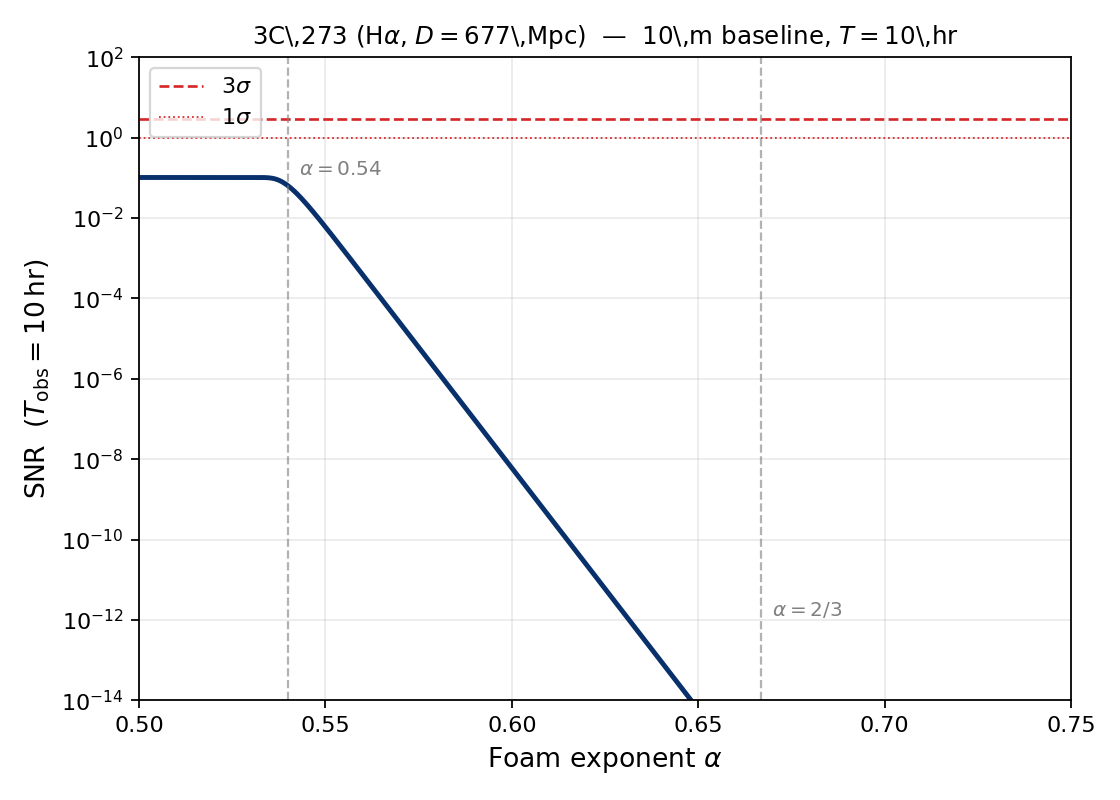
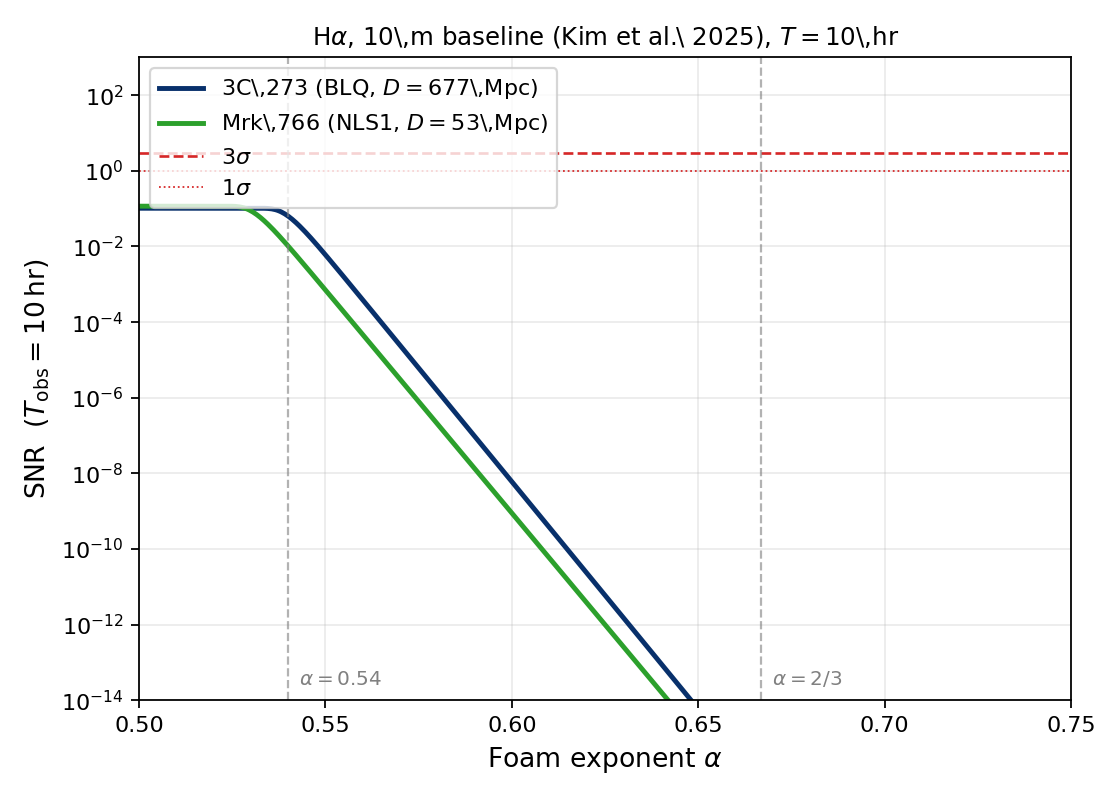
make_snr_alpha_figure.py: add Mrk 766 (NLS1) curve

diff --git a/docs/make_snr_alpha_figure.py b/docs/make_snr_alpha_figure.py
@@ -1,5 +1,5 @@
 r"""
-Figure: SNR vs foam exponent alpha for 3C 273 (Hα, D=677 Mpc),
+Figure: SNR vs foam exponent alpha for 3C 273 and Mrk 766 (NLS1),
 Kim 2025 baseline instrument (10 m, ε=0.39, σ_t=30 ps FWHM), T=10 hr.
 
 Run:  python make_snr_alpha_figure.py
@@ -31,17 +31,18 @@ sig_t     = 13e-12        # timing resolution, rms [s]  (30 ps FWHM)
 tau_c     = sig_t         # threshold filter: tau_c = sig_t (optimum)
 
 # ---------------------------------------------------------------
-# 3C 273 (Boroson & Green 1992)
+# Sources
 # ---------------------------------------------------------------
-F_line = 2e-12   # total Hα line flux [erg/s/cm²]
-FWHM   = 127.0   # Lorentzian FWHM [Å]
-dlam   = 1.1     # threshold filter width [Å]
-D_Mpc  = 677.0   # propagation distance [Mpc]
-D_m    = D_Mpc * Mpc
+dlam = 1.1   # threshold filter width [Å]
 
-# Lorentzian filter fraction and photon rate
-f_L = (2 / np.pi) * np.arctan(dlam / FWHM)
-R   = F_line * f_L * A_tel_cm2 / E_phot * eps   # [counts/s]
+# 3C 273 (Boroson & Green 1992): broad-line quasar
+sources = [
+    dict(label=r'3C\,273 (BLQ, $D=677$\,Mpc)',
+         F=2e-12, FWHM=127.0, D_Mpc=677.0, color='#08306b'),
+    # Mrk 766: bright NLS1, FWHM~1300 km/s = 28 Å at Hα (Kollatschny & Zetzl 2013)
+    dict(label=r'Mrk\,766 (NLS1, $D=53$\,Mpc)',
+         F=5e-13, FWHM=28.0,  D_Mpc=53.0,  color='#2ca02c'),
+]
 
 # ---------------------------------------------------------------
 # Observation time
@@ -49,35 +50,41 @@ R   = F_line * f_L * A_tel_cm2 / E_phot * eps   # [counts/s]
 T_obs = 10 * 3600.0   # 10 hr [s]
 
 # ---------------------------------------------------------------
-# SNR vs alpha
+# SNR vs alpha for each source
 # ---------------------------------------------------------------
-alpha     = np.linspace(0.50, 0.75, 500)
-sigma_phi = (2 * np.pi / lam_m) * D_m**(1 - alpha) * ell_P**alpha
-S         = np.exp(-2.0) * (1.0 - np.exp(-2.0 * sigma_phi**2))
-SNR       = S * R * np.sqrt(tau_c * T_obs)
+alpha = np.linspace(0.50, 0.75, 500)
+
+for src in sources:
+    D_m = src['D_Mpc'] * Mpc
+    f_L = (2 / np.pi) * np.arctan(dlam / src['FWHM'])
+    R   = src['F'] * f_L * A_tel_cm2 / E_phot * eps
+    sigma_phi = (2 * np.pi / lam_m) * D_m**(1 - alpha) * ell_P**alpha
+    S         = np.exp(-2.0) * (1.0 - np.exp(-2.0 * sigma_phi**2))
+    src['SNR'] = S * R * np.sqrt(tau_c * T_obs)
+    src['R']   = R
 
 # ---------------------------------------------------------------
 # Plot
 # ---------------------------------------------------------------
 fig, ax = plt.subplots(figsize=(7, 5))
 
-ax.semilogy(alpha, SNR, color='#08306b', lw=2.2)
+for src in sources:
+    ax.semilogy(alpha, src['SNR'], color=src['color'], lw=2.2,
+                label=src['label'])
 
 ax.axhline(3, color='#d62728', lw=1.2, ls='--', label=r'$3\sigma$')
 ax.axhline(1, color='#d62728', lw=0.8, ls=':',  label=r'$1\sigma$')
 
 for a_mark, label in [(0.54, r'$\alpha=0.54$'), (2/3, r'$\alpha=2/3$')]:
-    snr_v = float(np.interp(a_mark, alpha, SNR))
     ax.axvline(a_mark, color='gray', lw=1.0, ls='--', alpha=0.6)
-    ax.text(a_mark + 0.003, max(snr_v * 1.5, 1e-13), label,
+    ax.text(a_mark + 0.003, 2e-14, label,
             fontsize=9, color='gray', va='bottom')
 
 ax.set_xlim(0.50, 0.75)
-ax.set_ylim(1e-14, 1e2)
+ax.set_ylim(1e-14, 1e3)
 ax.set_xlabel(r'Foam exponent $\alpha$', fontsize=12)
 ax.set_ylabel(r'SNR  ($T_{\rm obs} = 10\,{\rm hr}$)', fontsize=12)
-ax.set_title(r'3C\,273 (H$\alpha$, $D=677$\,Mpc)  —  10\,m baseline, $T=10$\,hr',
-             fontsize=11)
+ax.set_title(r'H$\alpha$, 10\,m baseline (Kim et al.\ 2025), $T=10$\,hr', fontsize=11)
 ax.legend(fontsize=10, loc='upper left')
 ax.grid(True, which='major', alpha=0.25)
 ax.grid(True, which='minor', alpha=0.08)
